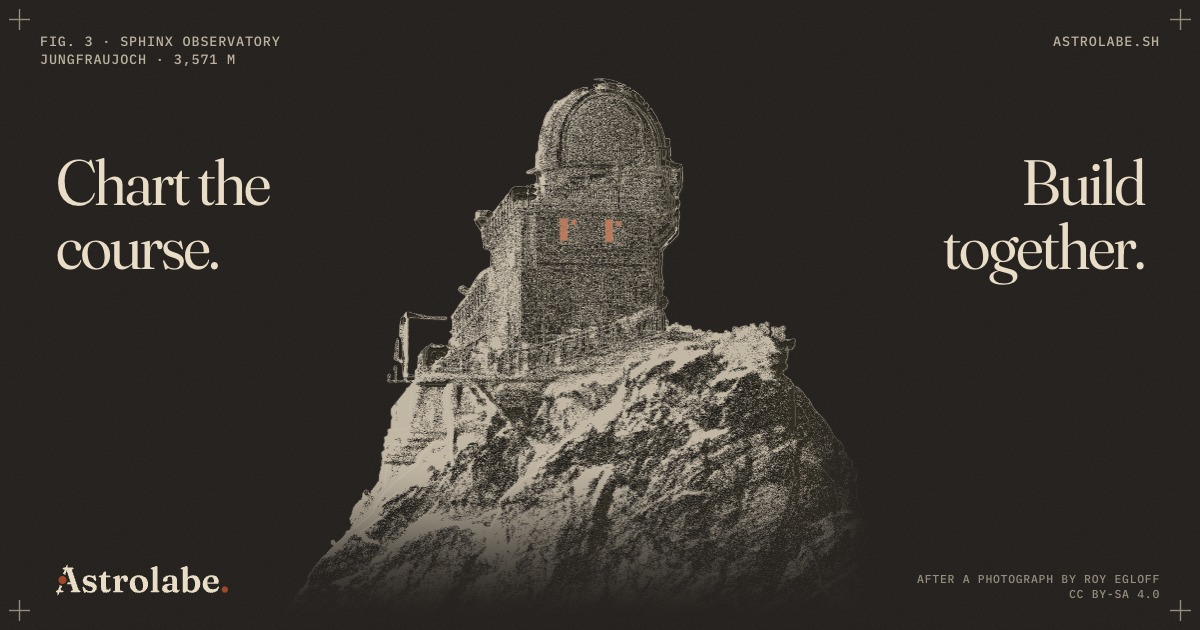
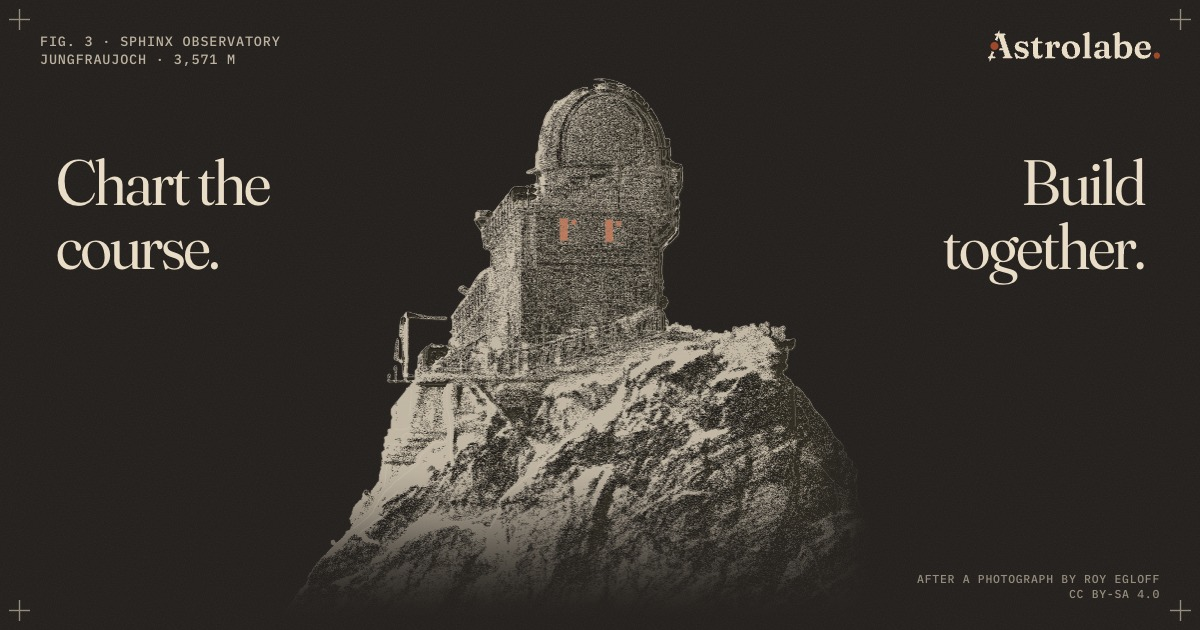
feat(landing): the Sphinx card in the unfurl lab, its name clear of X's title
The lab offers D · Sphinx and D · Sphinx by day. On the card the wordmark moves to the upper right:
X lays its title over the lower left, which left a sliver of the name showing under it.

Changed region(s): [[0.0308, 0.9048, 0.185, 0.9651], [0.8017, 0.0603, 0.9867, 0.0905]]

diff --git a/apps/landing/cards/sphinx.html b/apps/landing/cards/sphinx.html
@@ -66,10 +66,6 @@
         left: 40px;
         top: 32px;
       }
-      .sx__tag--tr {
-        right: 40px;
-        top: 32px;
-      }
       /* The licence's attribution, on the card because the card travels without the page. Lower right,
          clear of the title X lays over the lower left. */
       .sx__credit {
@@ -101,10 +97,11 @@
         right: 56px;
         text-align: right;
       }
+      /* The name in the upper right: the lower left is where X lays its title over the image. */
       .mark {
         position: absolute;
-        left: 56px;
-        bottom: 34px;
+        right: 40px;
+        top: 30px;
         width: 172px;
       }
     </style>
@@ -121,7 +118,6 @@
       <span class="cross cross--bl" aria-hidden="true"></span>
       <span class="cross cross--br" aria-hidden="true"></span>
       <p class="tag sx__tag sx__tag--tl">Fig. 3 · Sphinx Observatory<br />Jungfraujoch · 3,571 m</p>
-      <p class="tag sx__tag sx__tag--tr">astrolabe.sh</p>
       <p class="tag sx__tag sx__credit">After a photograph by Roy Egloff<br />CC BY-SA 4.0</p>
       <p class="wing wing--left"></p>
       <p class="wing wing--right"></p>
